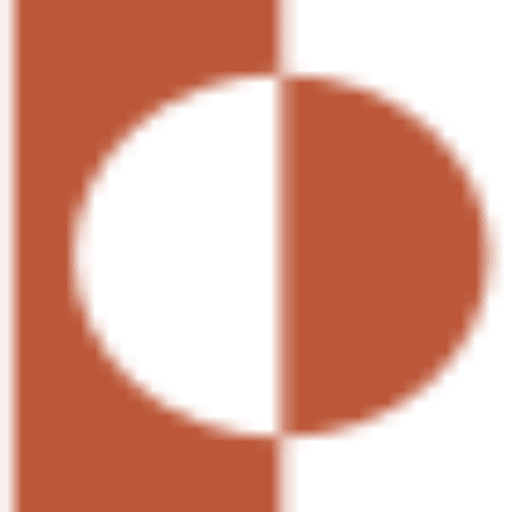
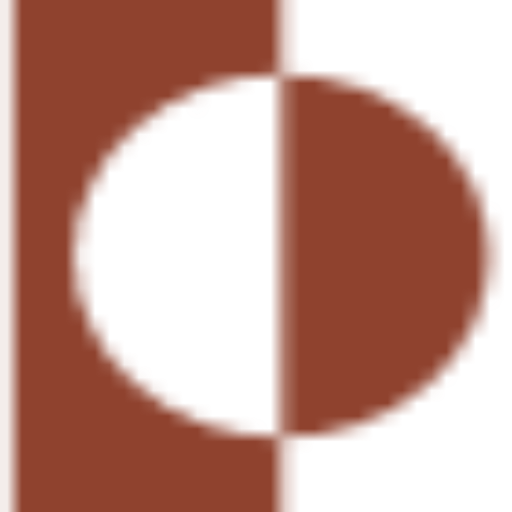
rebrand: ProxyBuying -> goProxyBuy (goproxybuy.com domain)
- New main/footer logos + favicon set into static/img/
- SITE_NAME = goProxyBuy (drives title, OG tags, all {{ SITE_NAME }})
- Replace hardcoded ProxyBuying in email + account templates
- contact-confirmation footer proxybuying.com -> goproxybuy.com
- Email/from defaults in settings -> goproxybuy.com (env still overrides)

diff --git a/templates/base.html b/templates/base.html
@@ -4,7 +4,7 @@
   <meta charset="utf-8">
   <meta name="viewport" content="width=device-width, initial-scale=1">
   <title>{% block title %}{{ SITE_NAME }} — Proxy buying service, made easy{% endblock %}</title>
-  <meta name="description" content="{% block meta_description %}ProxyBuying connects carriers with spare luggage space to buyers who want items from abroad. Safe, transparent proxy purchasing.{% endblock %}">
+  <meta name="description" content="{% block meta_description %}goProxyBuy connects carriers with spare luggage space to buyers who want items from abroad. Safe, transparent proxy buying.{% endblock %}">
   <link rel="canonical" href="{% block canonical %}{{ request.build_absolute_uri }}{% endblock %}">
 
   <!-- Open Graph -->
@@ -37,7 +37,7 @@
 <body>
 <header class="site-header">
   <div class="container nav">
-    <a href="{% url 'pages:home' %}" class="brand"><picture><source srcset="{% static 'img/logo.webp' %}" type="image/webp"><img src="{% static 'img/logo.png' %}" alt="ProxyBuying" class="brand-logo" width="215" height="34"></picture></a>
+    <a href="{% url 'pages:home' %}" class="brand"><picture><source srcset="{% static 'img/logo.webp' %}" type="image/webp"><img src="{% static 'img/logo.png' %}" alt="goProxyBuy" class="brand-logo" width="215" height="34"></picture></a>
     <button class="nav-toggle" aria-label="Menu" onclick="document.getElementById('navlinks').classList.toggle('open')">☰</button>
     <ul class="nav-links" id="navlinks">
         <li><a href="{% url 'pages:how_to' %}">How-To</a></li>
@@ -70,7 +70,7 @@
     <div class="footer-grid">
       <div>
         <a href="{% url 'pages:home' %}" class="brand">
-          <picture><source srcset="{% static 'img/logo-footer.webp' %}" type="image/webp"><img src="{% static 'img/logo-footer.png' %}" alt="ProxyBuying" class="footer-logo" width="190" height="30"></picture>
+          <picture><source srcset="{% static 'img/logo-footer.webp' %}" type="image/webp"><img src="{% static 'img/logo-footer.png' %}" alt="goProxyBuy" class="footer-logo" width="190" height="30"></picture>
         </a>
         <p class="muted" style="max-width:350px;margin-top:12px;color:#fff; font-size: 1em;">
           Proxy Buying Service Made Easy.<br>Carriers and Proxy Buyers earn, Buyers get the goods they want.
@@ -89,7 +89,7 @@
         </address>
       </div>
     </div>
-    <div class="footer-bottom" style="text-align: center; color: #ff7316;">© {% now "Y" %} ProxyBuying — All rights reserved.</div>
+    <div class="footer-bottom" style="text-align: center; color: #ff7316;">© {% now "Y" %} goProxyBuy — All rights reserved.</div>
   </div>
 </footer>
 <button id="to-top" aria-label="Back to top" title="Back to top">&uarr;</button>

diff --git a/templates/pages/home.html b/templates/pages/home.html
@@ -11,7 +11,7 @@
       <span class="eyebrow">Proxy Buying Service Made Easy</span>
       <h1 class="hero-title">
         <span class="hero-label">Find proxy buyer abroad to source and buy goods for you</span><br>
-		<span class="hero-sub">Payments secured by ProxyBuying</span><br>
+		<span class="hero-sub">Payments secured by goProxyBuy</span><br>
 
       </h1>
       <div class="hero-cta">
@@ -44,7 +44,7 @@
     <div class="section-head">
       <span class="eyebrow">Carrier Starts Here</span>
       <h2>Queuing Cargo</h2>
-      <p>Place your Offers to any Request below that meets your route and date.</p>
+      <p>Carrier can place Offer to any Request below that meets your route and date.</p>
     </div>
     {% include "pages/_home_cargo_looking_table.html" with cargo_looking=cargo_looking empty_msg="No queuing cargo exist for now." %}
   </div>
@@ -54,10 +54,9 @@
 <section id="queuing-carrier" class="section-cream">
   <div class="container">
     <div class="section-head">
-      <span class="eyebrow">Buyer Sends Here</span>
+      <span class="eyebrow">Buyer Check Here</span>
       <h2>Queuing Carrier</h2>
-      <p>Carriers with spare luggage space on their route. Once your Proxy Buyer's
-        estimate is accepted, press <em>Send Order</em> to offer your order to an Open carrier.</p>
+      <p>Buyer can place Order to any Offer below that meets your route and date.</p>
     </div>
     {% include "pages/_home_carrier_queue_table.html" with queuing_carriers=queuing_carriers empty_msg="No queuing carriers exist for now." %}
   </div>

diff --git a/templates/emails/contact_confirmation.html b/templates/emails/contact_confirmation.html
@@ -1,10 +1,10 @@
 {% extends "email_base.html" %}
 {% block body %}
   <p>Hi <strong>{{ msg.name }}</strong>,</p>
-  <p>Thanks for reaching out to ProxyBuying! We have successfully received your message regarding <strong>{{ msg.get_topic_display }}</strong>.</p>
+  <p>Thanks for reaching out to goProxyBuy! We have successfully received your message regarding <strong>{{ msg.get_topic_display }}</strong>.</p>
   <p>Our team is currently looking over your request. We will review the details and get back to you directly at this email address within 24–48 hours.</p>
   <p>In the meantime, feel free to check out our <a href="{{ faq_url }}">FAQ page</a> for quick answers to common questions about buying, shipping, and earning with us.</p>
-  <p>Best regards,<br><strong>The ProxyBuying Team</strong><br>proxybuying.com</p>
+  <p>Best regards,<br><strong>The goProxyBuy Team</strong><br>goproxybuy.com</p>
   <p style="margin-top:20px;padding-top:16px;border-top:1px solid #e3ded2;color:#8a857a;font-size:13px">
     For your records, here is what you sent us: <span style="white-space:pre-wrap">"{{ msg.message }}"</span>
   </p>

diff --git a/templates/email_base.html b/templates/email_base.html
@@ -7,13 +7,13 @@
       <table role="presentation" width="560" cellpadding="0" cellspacing="0"
              style="max-width:560px;background:#ffffff;border-radius:12px;overflow:hidden;border:1px solid #e3ded2;">
         <tr><td style="background:#ffffff;padding:18px 28px;border-bottom:1px solid #e3ded2;">
-          <img src="{{ logo_url }}" alt="ProxyBuying" width="215" height="34" style="display:block;border:0;height:34px;width:auto;">
+          <img src="{{ logo_url }}" alt="goProxyBuy" width="215" height="34" style="display:block;border:0;height:34px;width:auto;">
         </td></tr>
         <tr><td style="padding:28px;font-size:15px;line-height:1.6;">
           {% block body %}{% endblock %}
         </td></tr>
         <tr><td style="padding:18px 28px;background:#faf9f5;border-top:1px solid #e3ded2;font-size:12px;color:#8a857a;">
-          You're receiving this because you have an account on ProxyBuying.
+          You're receiving this because you have an account on goProxyBuy.
         </td></tr>
       </table>
     </td></tr>

diff --git a/templates/account/email/email_confirmation_message.html b/templates/account/email/email_confirmation_message.html
@@ -1,7 +1,7 @@
 {% extends "email_base.html" %}
 {% block body %}
   <h2 style="margin:0 0 12px;color:#1a1a18;font-size:20px;">Confirm your email</h2>
-  <p>Welcome to ProxyBuying! Please confirm that this is your email address to activate your account.</p>
+  <p>Welcome to goProxyBuy! Please confirm that this is your email address to activate your account.</p>
   {% include "_email_button.html" with url=activate_url label="Click to Confirm" %}
   <p style="color:#8a857a;font-size:13px;">If the button doesn't work, copy this link into your browser:<br>
     <a href="{{ activate_url }}" style="color:#99492f;word-break:break-all;">{{ activate_url }}</a></p>

diff --git a/templates/emails/deposit_paid.html b/templates/emails/deposit_paid.html
@@ -3,7 +3,7 @@
   {# #Step-5.3-Carrier #}
   <h2 style="margin:0 0 12px;color:#1a1a18;">Deposit secured — you can start purchasing</h2>
   <p>The deposit for request <strong>{{ request_obj.reference }}</strong> has been verified and is now
-     <strong>secured</strong> by ProxyBuying.</p>
+     <strong>secured</strong> by goProxyBuy.</p>
   <p>You can go ahead and purchase the items, then record the actual cost and a photo for each one.
      Your <strong>full payment</strong> (the entire invoice, less the {{ request_obj.transaction.commission_percent }}%
      platform fee) is released to you once the buyer picks up the package and confirms it's good

diff --git a/templates/account/email/password_reset_key_message.html b/templates/account/email/password_reset_key_message.html
@@ -1,7 +1,7 @@
 {% extends "email_base.html" %}
 {% block body %}
   <h2 style="margin:0 0 12px;color:#1a1a18;font-size:20px;">Reset your password</h2>
-  <p>You're receiving this email because a password reset was requested for your ProxyBuying account.
+  <p>You're receiving this email because a password reset was requested for your goProxyBuy account.
      If you didn't request it, you can safely ignore this email.</p>
   {% include "_email_button.html" with url=password_reset_url label="Reset Password" %}
   <p style="color:#8a857a;font-size:13px;">If the button doesn't work, copy this link into your browser:<br>

diff --git a/templates/emails/closed.html b/templates/emails/closed.html
@@ -4,6 +4,6 @@
   <h2 style="margin:0 0 12px;color:#1a1a18;">Pickup confirmed — all done</h2>
   <p>Thanks for confirming pickup for request #<strong>{{ request_obj.reference }}</strong> by marking it
      <strong>Clear</strong>. Everything is settled — the carrier is being paid and your order is complete.</p>
-  <p>Thank you for using ProxyBuying!</p>
-  {% include "_email_button.html" with url=site_url label="Back to ProxyBuying" %}
+  <p>Thank you for using goProxyBuy!</p>
+  {% include "_email_button.html" with url=site_url label="Back to goProxyBuy" %}
 {% endblock %}

diff --git a/templates/emails/payout_released.html b/templates/emails/payout_released.html
@@ -8,6 +8,6 @@
   <p>As agreed, you are now paid the <strong>full amount</strong> — the entire invoice (items, margin,
      shipment and any custom duty) less the {{ request_obj.transaction.commission_percent }}% platform fee.</p>
   <p style="font-size:18px;"><strong>Payout: {{ request_obj.currency }} {{ payout|by_currency:request_obj.currency }}</strong></p>
-  <p>Thank you for travelling with ProxyBuying!</p>
+  <p>Thank you for travelling with goProxyBuy!</p>
   {% include "_email_button.html" with url=request_url label="View the Transaction" %}
 {% endblock %}

diff --git a/templates/emails/chat_message.html b/templates/emails/chat_message.html
@@ -6,6 +6,6 @@
   <blockquote style="margin:14px 0;padding:10px 14px;border-left:3px solid #cc785c;background:#faf9f5;color:#3d3a35;">
     {{ preview }}{% if preview|length >= 160 %}…{% endif %}
   </blockquote>
-  <p>Reply on the request page (your conversation stays on ProxyBuying).</p>
+  <p>Reply on the request page (your conversation stays on goProxyBuy).</p>
   {% include "_email_button.html" with url=request_url label="Open & reply" %}
 {% endblock %}

diff --git a/config/settings.py b/config/settings.py
@@ -27,7 +27,7 @@ ALLOWED_HOSTS = env_list("ALLOWED_HOSTS", "localhost,127.0.0.1,0.0.0.0")
 CSRF_TRUSTED_ORIGINS = env_list("CSRF_TRUSTED_ORIGINS", "http://localhost:8019,http://127.0.0.1:8019")
 
 SITE_ID = 1
-SITE_NAME = "ProxyBuying"
+SITE_NAME = "goProxyBuy"
 SITE_DOMAIN = os.getenv("SITE_DOMAIN", "localhost:8019")
 
 # Only production should be indexed by search engines. Staging/dev stay noindex
@@ -175,15 +175,15 @@ if env_bool("EMAIL_USE_SMTP", False):
     EMAIL_BACKEND = "django.core.mail.backends.smtp.EmailBackend"
     EMAIL_HOST = os.getenv("EMAIL_HOST", "")
     EMAIL_PORT = int(os.getenv("EMAIL_PORT", "587"))
-    EMAIL_HOST_USER = os.getenv("EMAIL_HOST_USER", "admin@proxybuying.com")
+    EMAIL_HOST_USER = os.getenv("EMAIL_HOST_USER", "admin@goproxybuy.com")
     EMAIL_HOST_PASSWORD = os.getenv("EMAIL_HOST_PASSWORD", "")
     EMAIL_USE_TLS = env_bool("EMAIL_USE_TLS", True)
     EMAIL_USE_SSL = env_bool("EMAIL_USE_SSL", False)
 else:
     EMAIL_BACKEND = "django.core.mail.backends.console.EmailBackend"
 
-DEFAULT_FROM_EMAIL = os.getenv("DEFAULT_FROM_EMAIL", "ProxyBuying <admin@proxybuying.com>")
-ADMIN_EMAIL = os.getenv("ADMIN_EMAIL", "admin@proxybuying.com")
+DEFAULT_FROM_EMAIL = os.getenv("DEFAULT_FROM_EMAIL", "goProxyBuy <support@goproxybuy.com>")
+ADMIN_EMAIL = os.getenv("ADMIN_EMAIL", "admin@goproxybuy.com")
 
 # Send email + WhatsApp notifications off the request/response cycle (in a
 # background thread pool) so a slow SMTP/WhatsApp call never makes an action
